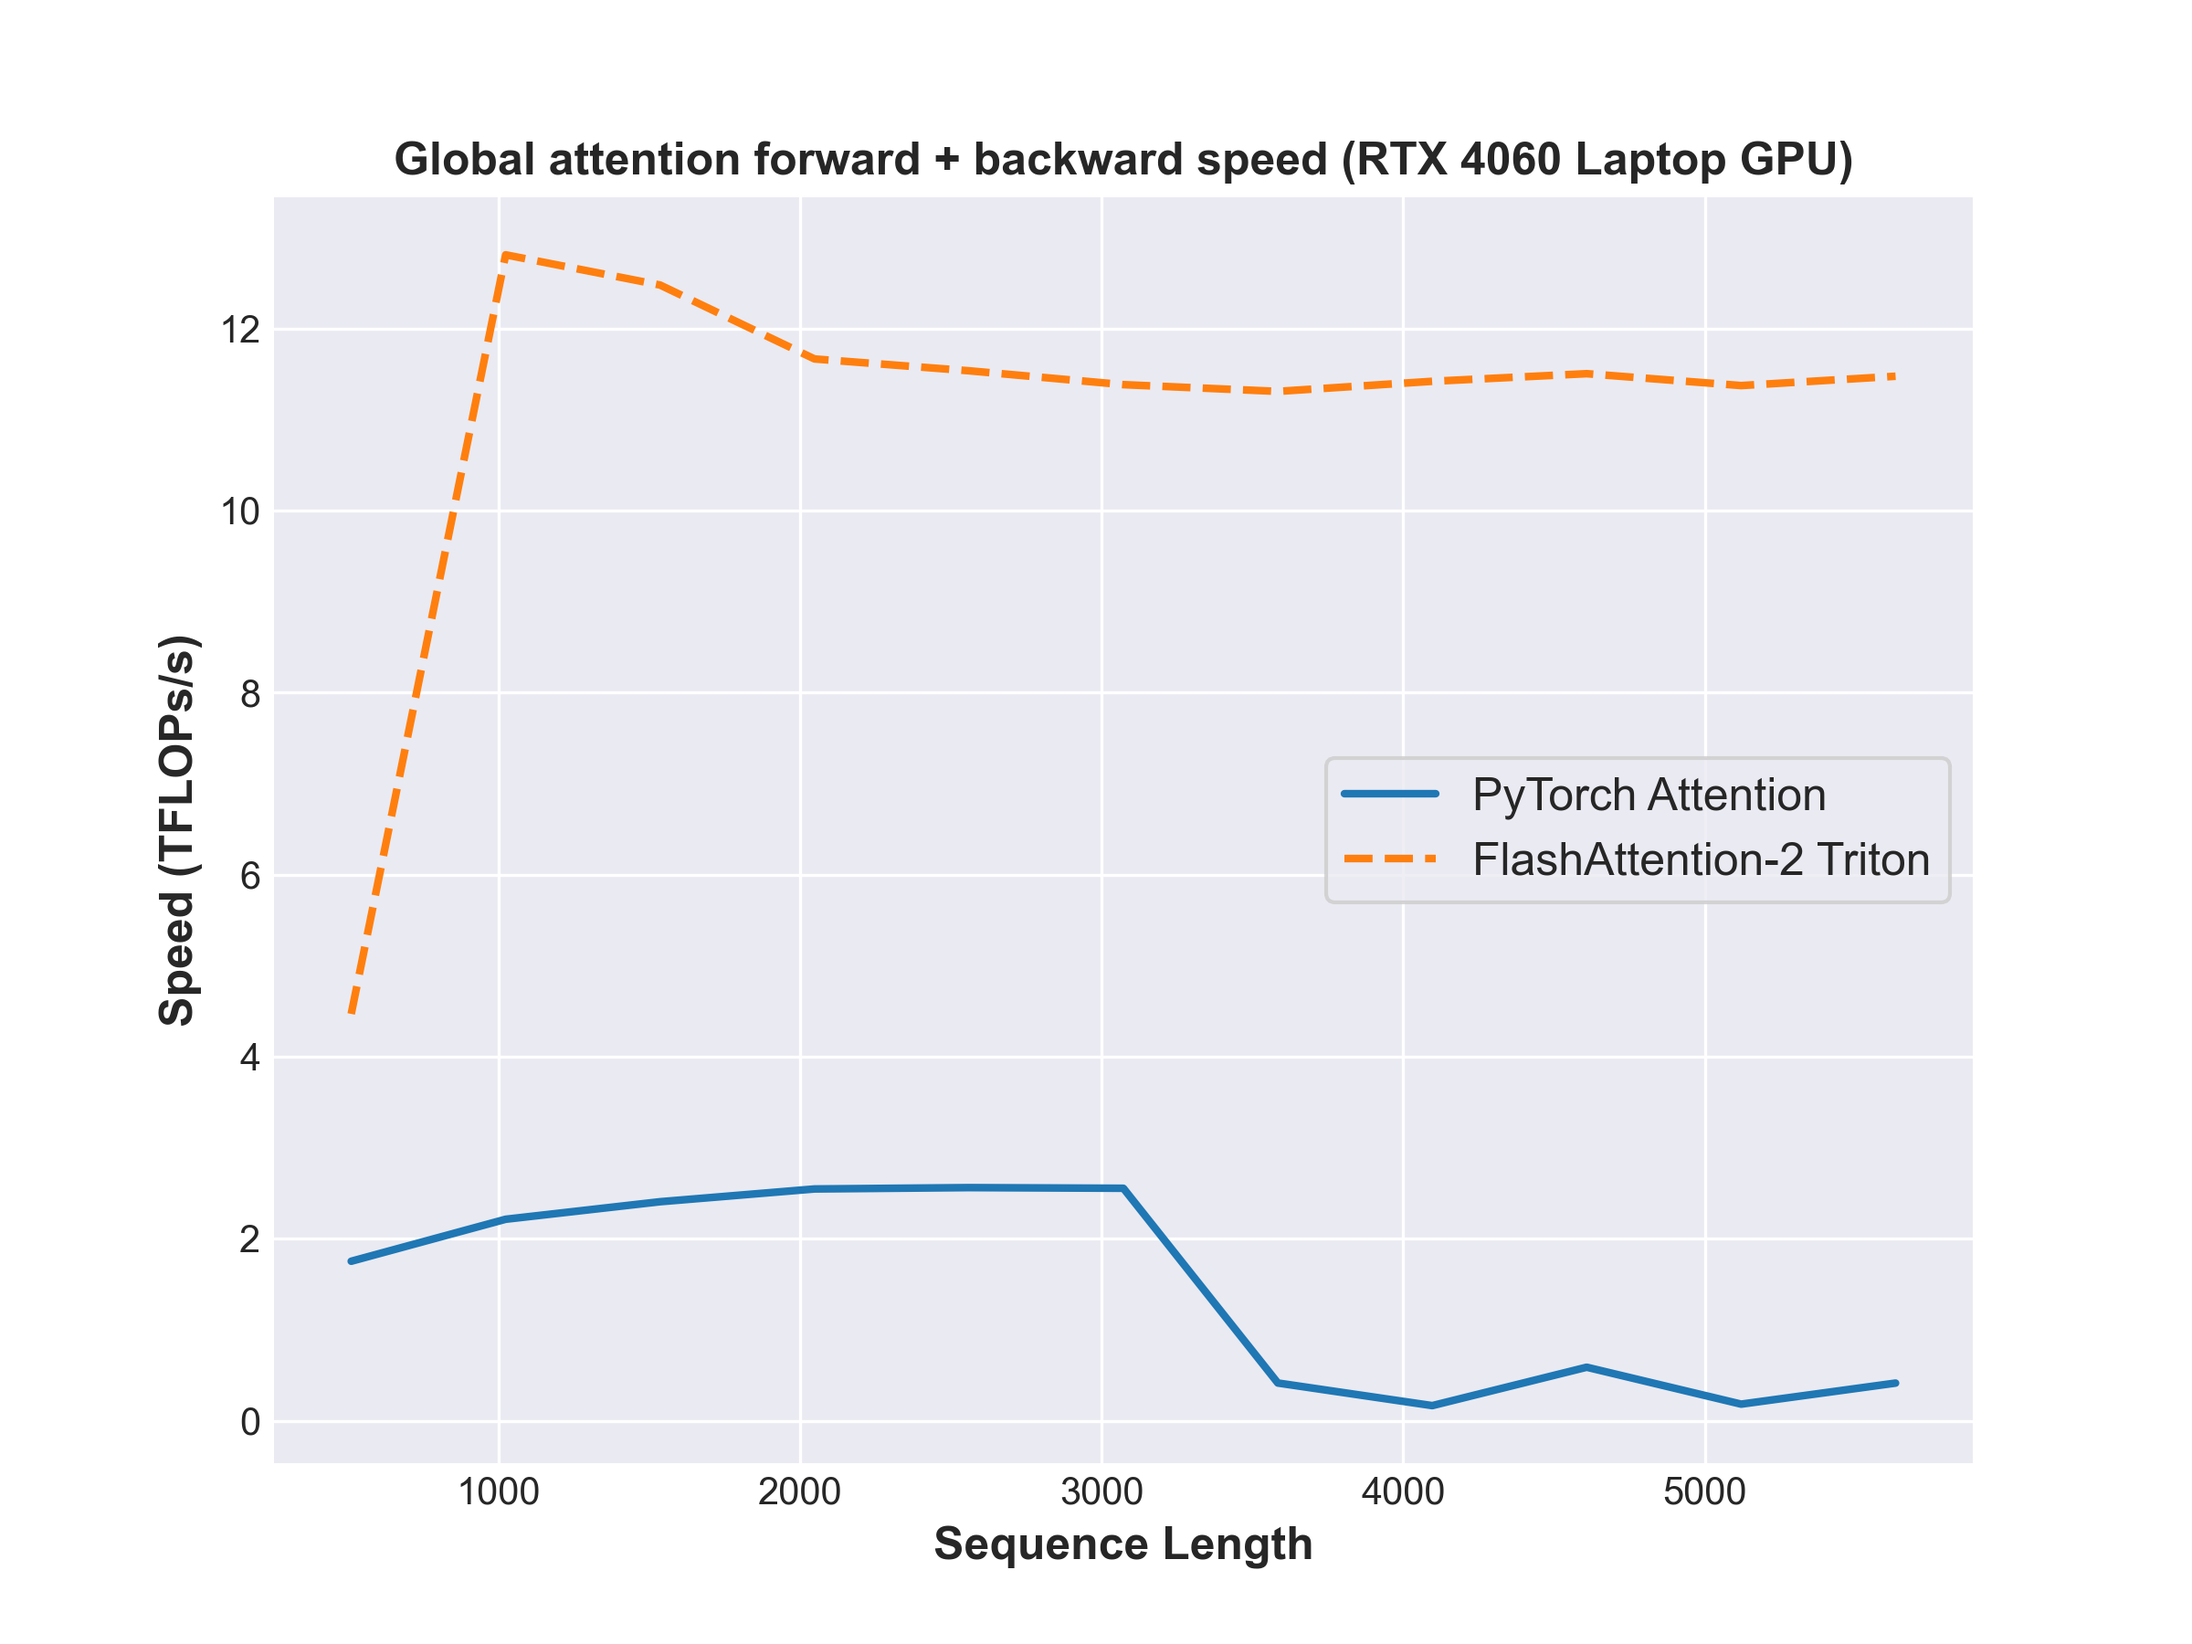
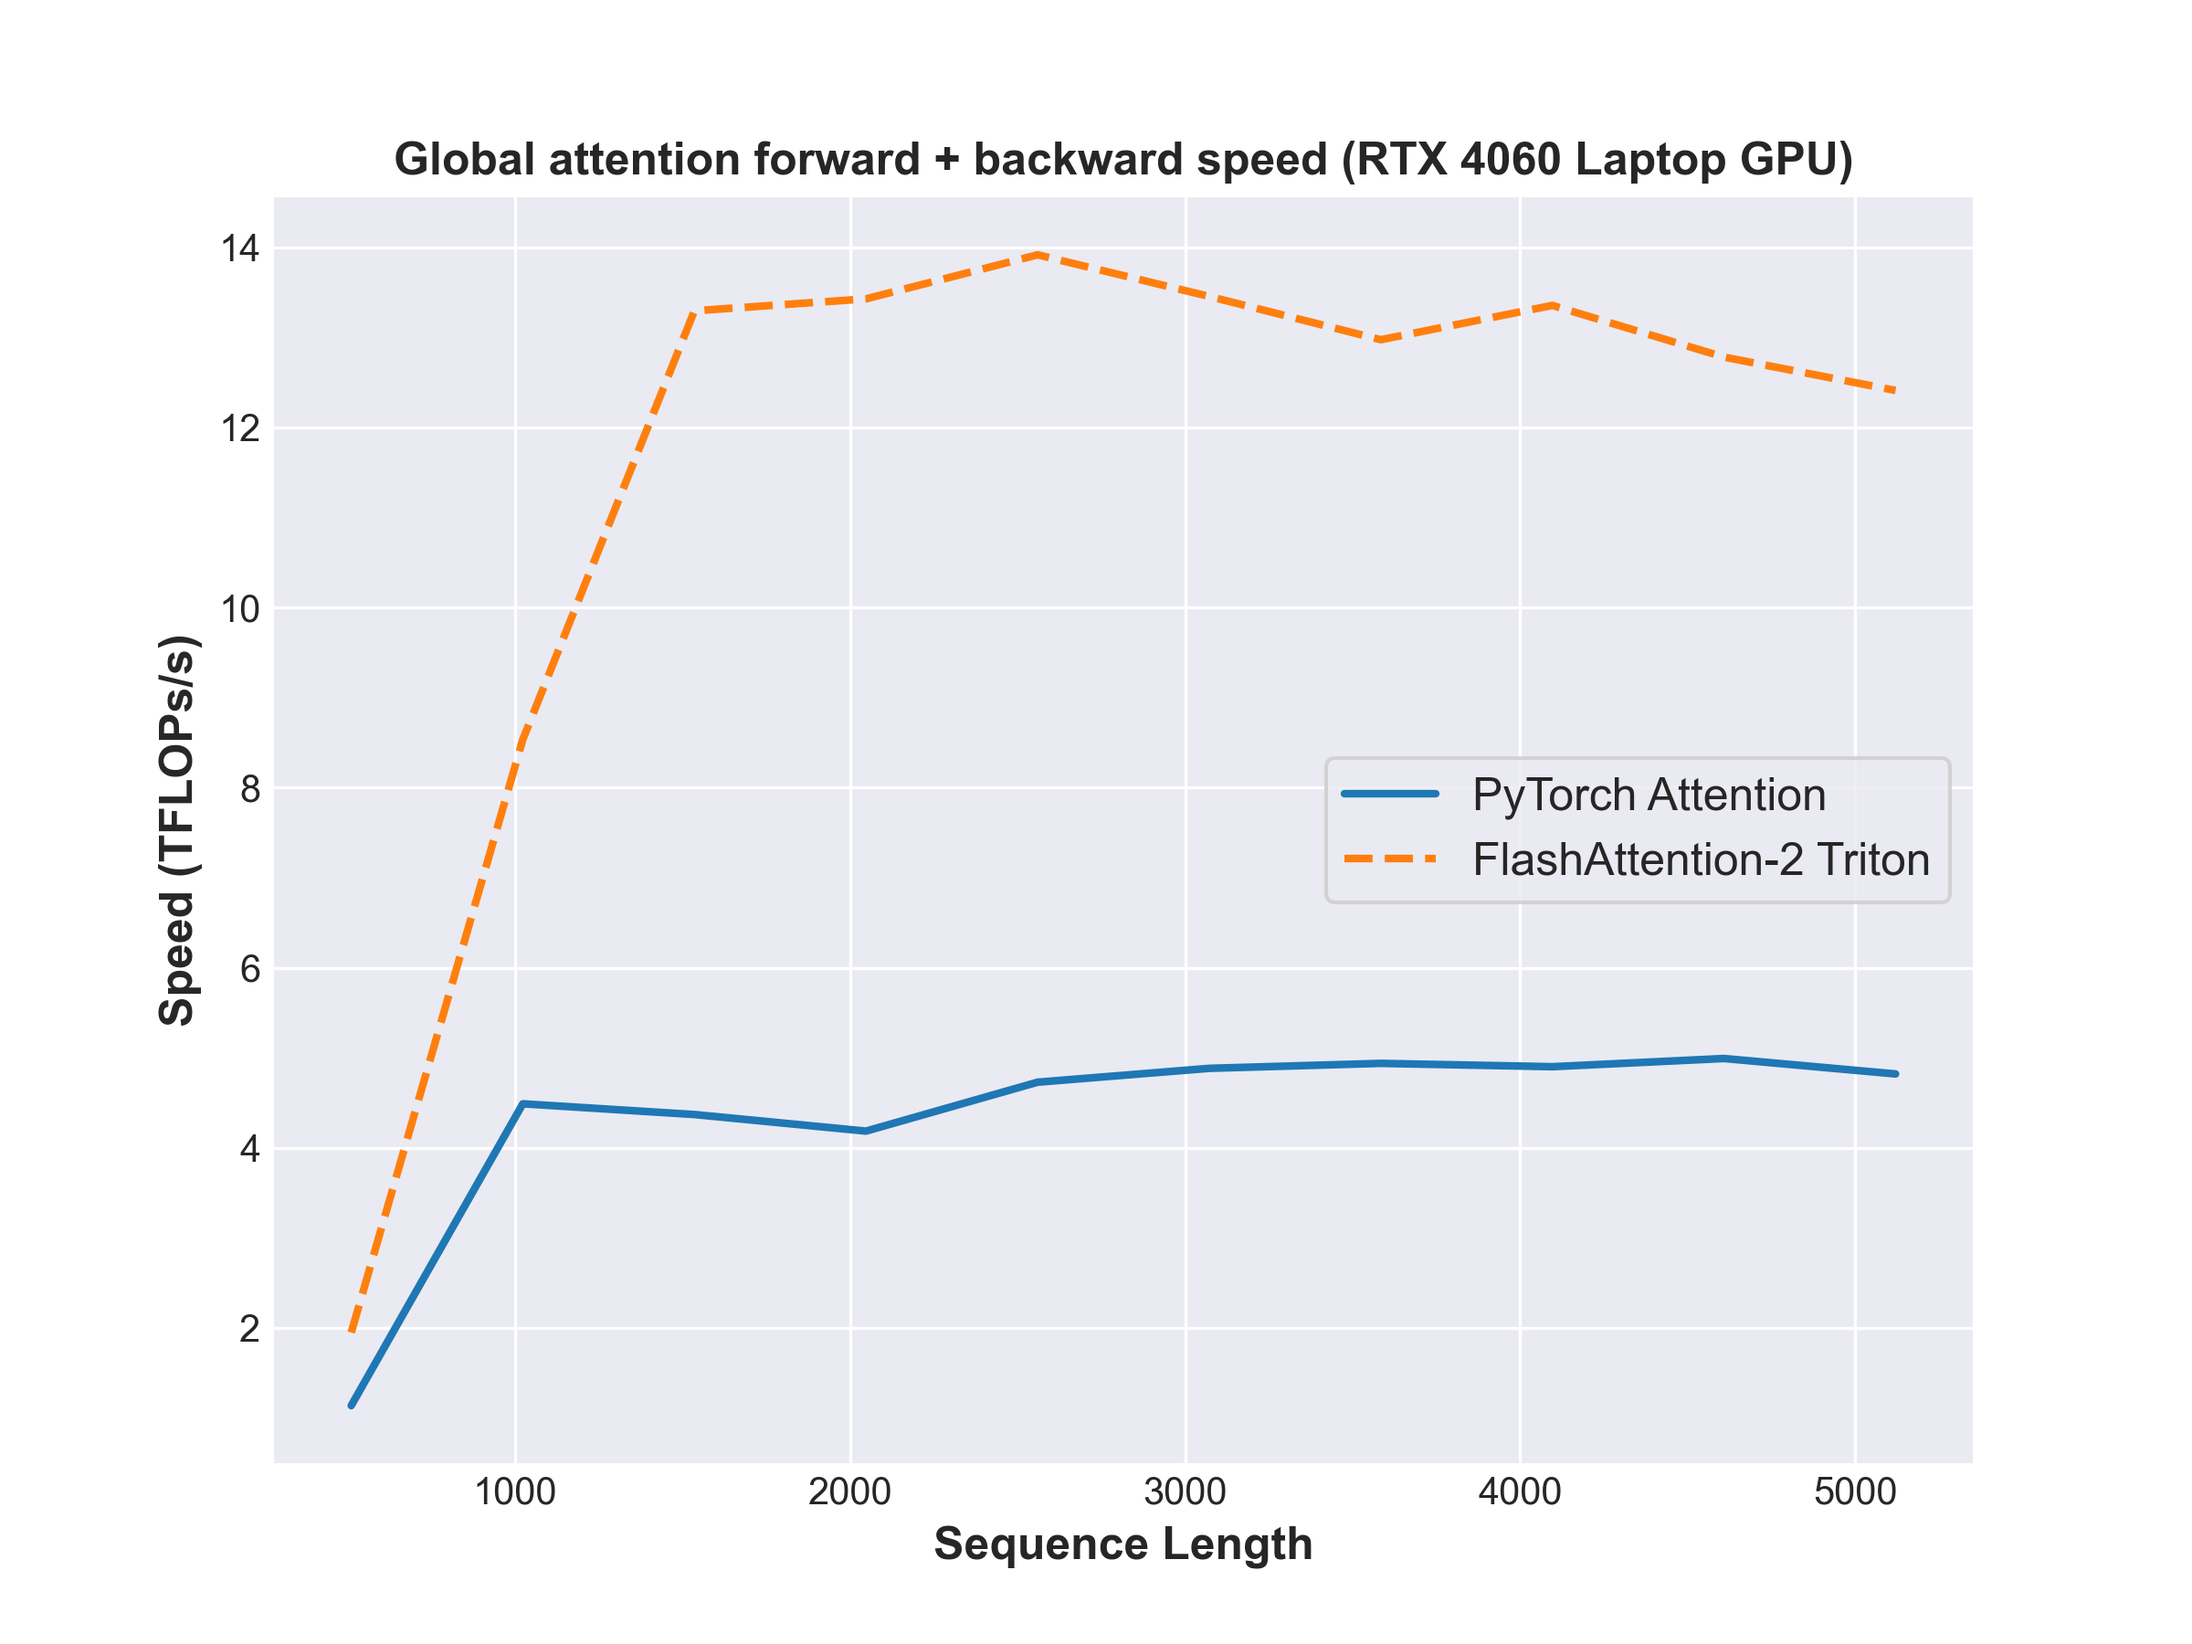
small readme and benchmark update

diff --git a/tests/benchmark.py b/tests/benchmark.py
@@ -13,12 +13,12 @@ def parse_args():
     parser = argparse.ArgumentParser(
         description="Benchmark PyTorch vs Triton Attention Speed"
     )
-    parser.add_argument("--batch_size", type=int, default=4, help="Batch size")
+    parser.add_argument("--batch_size", type=int, default=1, help="Batch size")
     parser.add_argument(
         "--num_heads", type=int, default=4, help="Number of attention heads"
     )
     parser.add_argument(
-        "--head_dim", type=int, default=64, help="Dimension of each attention head"
+        "--head_dim", type=int, default=128, help="Dimension of each attention head"
     )
     parser.add_argument(
         "--window_size",
@@ -61,7 +61,7 @@ def calculate_efficiency(flops, time):
 
 
 def benchmark_time_combined(
-    fn, *inputs, grad=None, repeats=10, amp_dtype=torch.float16, **kwinputs
+    fn, *inputs, grad=None, repeats=5, amp_dtype=torch.float16, **kwinputs
 ):
     """Benchmark forward and backward pass of an arbitrary function using torch.utils.benchmark."""
 
@@ -141,7 +141,10 @@ def run_attention_benchmark(
         fn = lambda: FlashAttention.apply(Q, K, V, window_size, attn_mode)
 
     # Measure execution time
-    time = benchmark_time_combined(fn, grad=dO, repeats=10, amp_dtype=dtype)
+    time = benchmark_time_combined(fn, grad=dO, repeats=5, amp_dtype=dtype)
+    print(
+        f"> {provider.capitalize()} Attention | Seq_len={seq_len} | {time*1e3:.4f} ms"
+    )
 
     # Calculate TFLOPs/s
     fwd_flops, bwd_flops = calculate_flops(
@@ -221,7 +224,7 @@ if __name__ == "__main__":
     args = parse_args()
 
     # Set the sequence lengths to benchmark
-    seq_lens = [512 * i for i in range(1, 12)]
+    seq_lens = [512 * i for i in range(1, 11)]
 
     plot_benchmark_results(
         batch_size=args.batch_size,

diff --git a/tests/test.py b/tests/test.py
@@ -17,7 +17,7 @@ def parse_args():
         "--num_heads", type=int, default=4, help="Number of attention heads"
     )
     parser.add_argument(
-        "--head_dim", type=int, default=64, help="Dimension of each attention head"
+        "--head_dim", type=int, default=128, help="Dimension of each attention head"
     )
     parser.add_argument(
         "--window_size",

diff --git a/README.md b/README.md
@@ -14,15 +14,15 @@ Note:
 - No dropout is applied.
 - Uses FP16 precision.
 
+## Introduction
+
+This implementation replicates the trend described in the FlashAttention-2 paper, with significant performance improvements compared to traditional attention mechanisms.
+
 <div align="center">
   <img src="media/benchmark.png" alt="FlashAttention-2 Benchmarks" width="500" />
 </div>
 
 <br>
-
-## Introduction
-
-This implementation replicates the trend described in the FlashAttention-2 paper, with significant performance improvements compared to traditional attention mechanisms.
 
 --> Up to 2-10x speedup compared to a standard PyTorch attention implementation.
 
@@ -58,7 +58,7 @@ Each test verifies:
 git clone https://github.com/MaxLSB/flash-attention-2.git
 ```
 
-# To Do
+## To Do
 
 - Fix the current restrictions for Sliding Window:
   - SEQ_LEN >= 4 * BLOCK_SIZE
